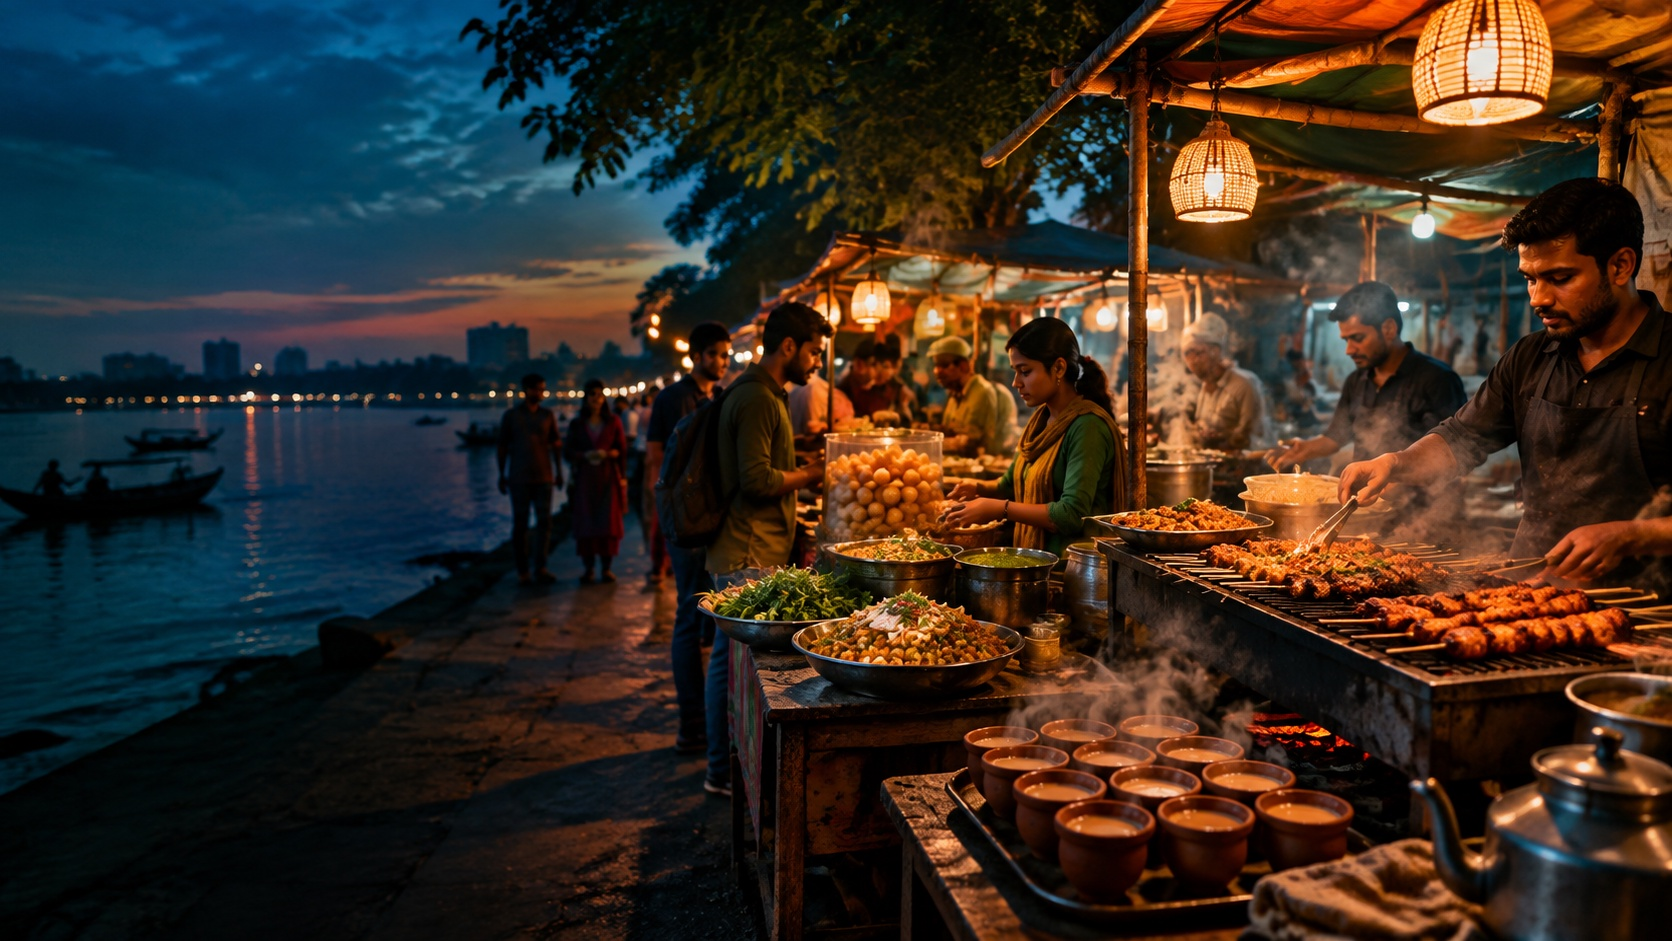
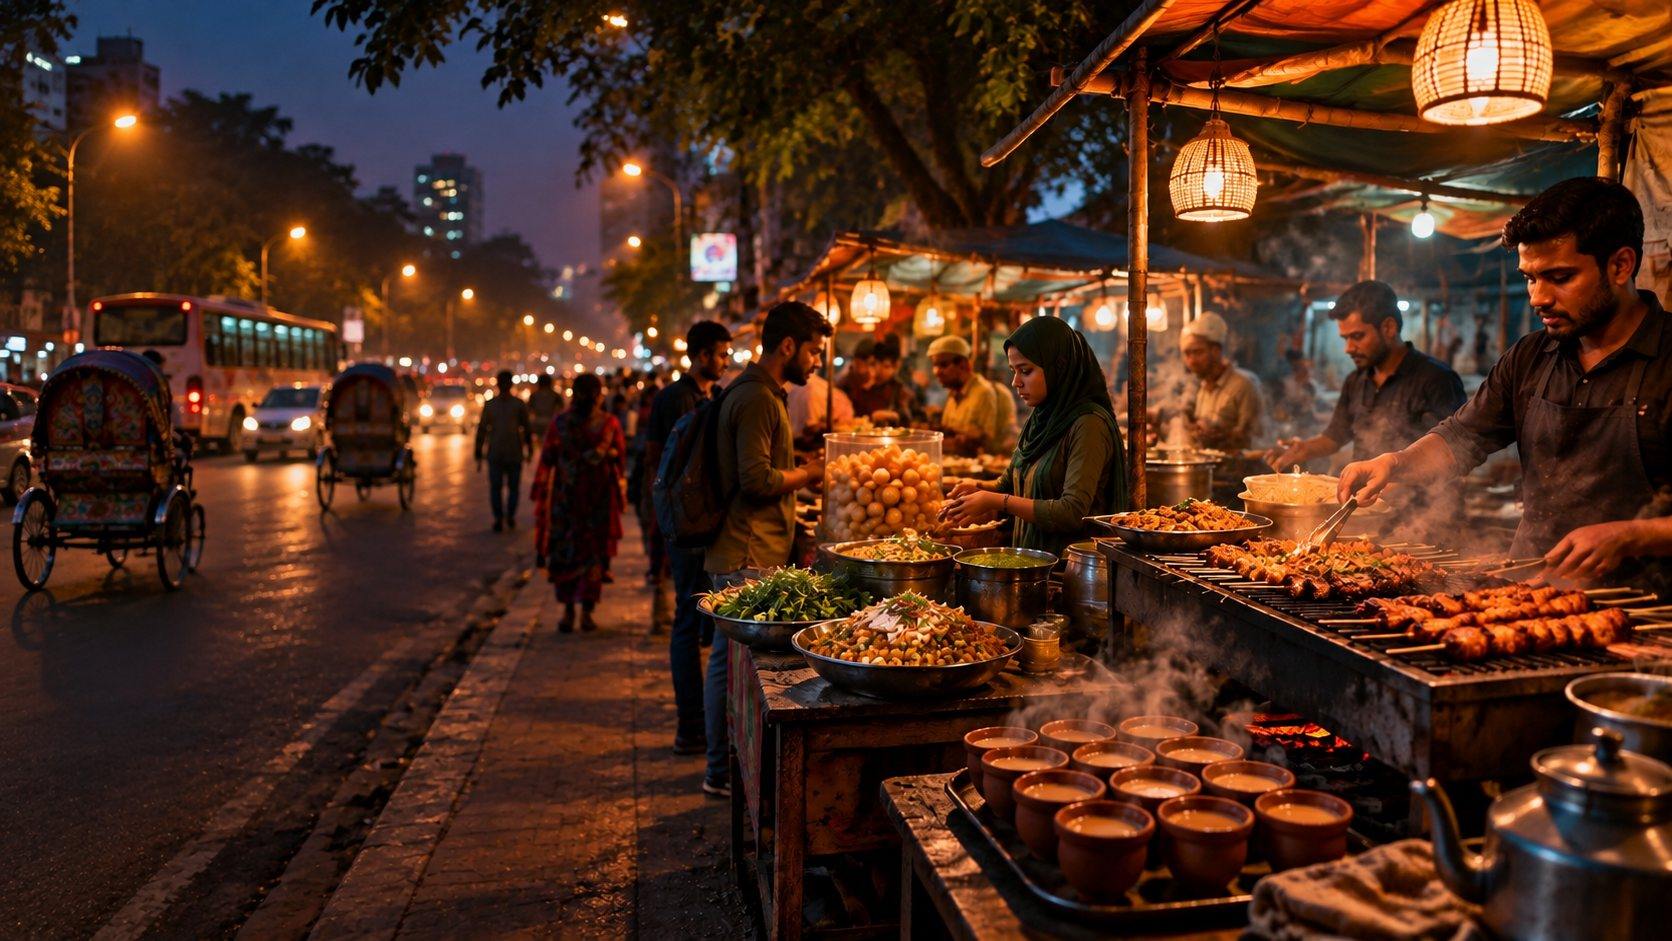
Swap hero photo for a roadside scene with a hijab-wearing vendor

diff --git a/src/routes/index.tsx b/src/routes/index.tsx
@@ -98,7 +98,7 @@ function Home() {
   return (
     <main>
       <section className="relative overflow-hidden">
-        <img src={hero} alt="A lively Bangladeshi street food market at night" width={1672} height={941} className="absolute inset-0 h-full w-full object-cover" />
+        <img src={hero} alt="A busy Bangladeshi roadside street food market at dusk" width={1672} height={941} className="absolute inset-0 h-full w-full object-cover" />
         <div className="absolute inset-0 bg-hero-fade" />
         <div className="relative mx-auto max-w-7xl px-4 pb-8 pt-16 text-ink-foreground sm:pb-10 sm:pt-24 md:pt-36">
           <h1 className="max-w-2xl text-3xl font-extrabold leading-[1.05] sm:text-4xl md:text-6xl">{t("heroTitle")}</h1>
